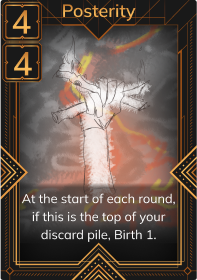
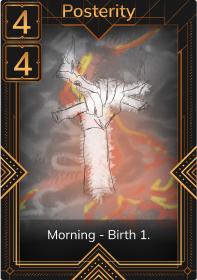
Added Morning keyword, simplified a few cards text, Heron changed to 0 cost

Changed region(s): [[0.0914, 0.6571, 0.9137, 0.8857]]

diff --git a/src/scene/builderRegions/deck.ts b/src/scene/builderRegions/deck.ts
@@ -217,7 +217,7 @@ export default class DeckRegion {
 		let xPad = Space.pad
 
 		// For resolutions below a threshold, make the overlap more intense to fit 15 cards
-		let overlap = Space.cardWidth - 60 // TODO Use an overlap sizer
+		let overlap = 0 // TODO Use an overlap sizer
 		const x0 = Space.windowWidth - (Space.smallButtonWidth + 2*Space.pad + Space.cardWidth/2)
 		let x = x0 - index * (Space.cardWidth - overlap)
 
